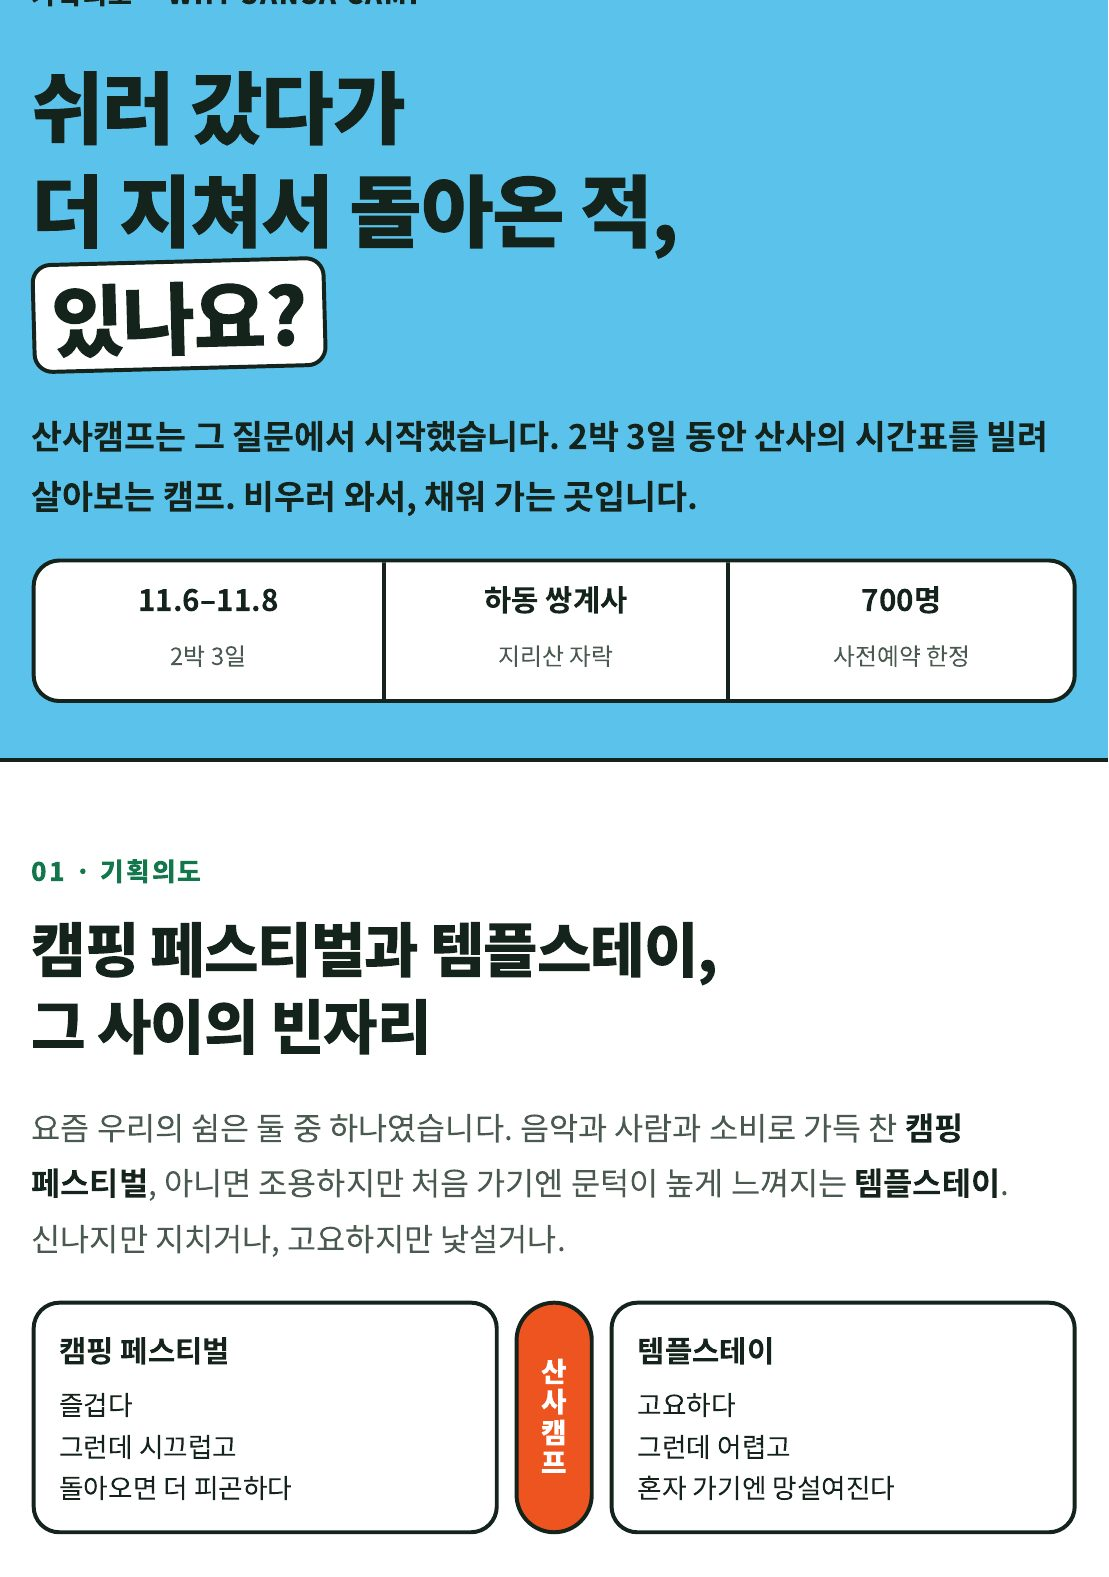
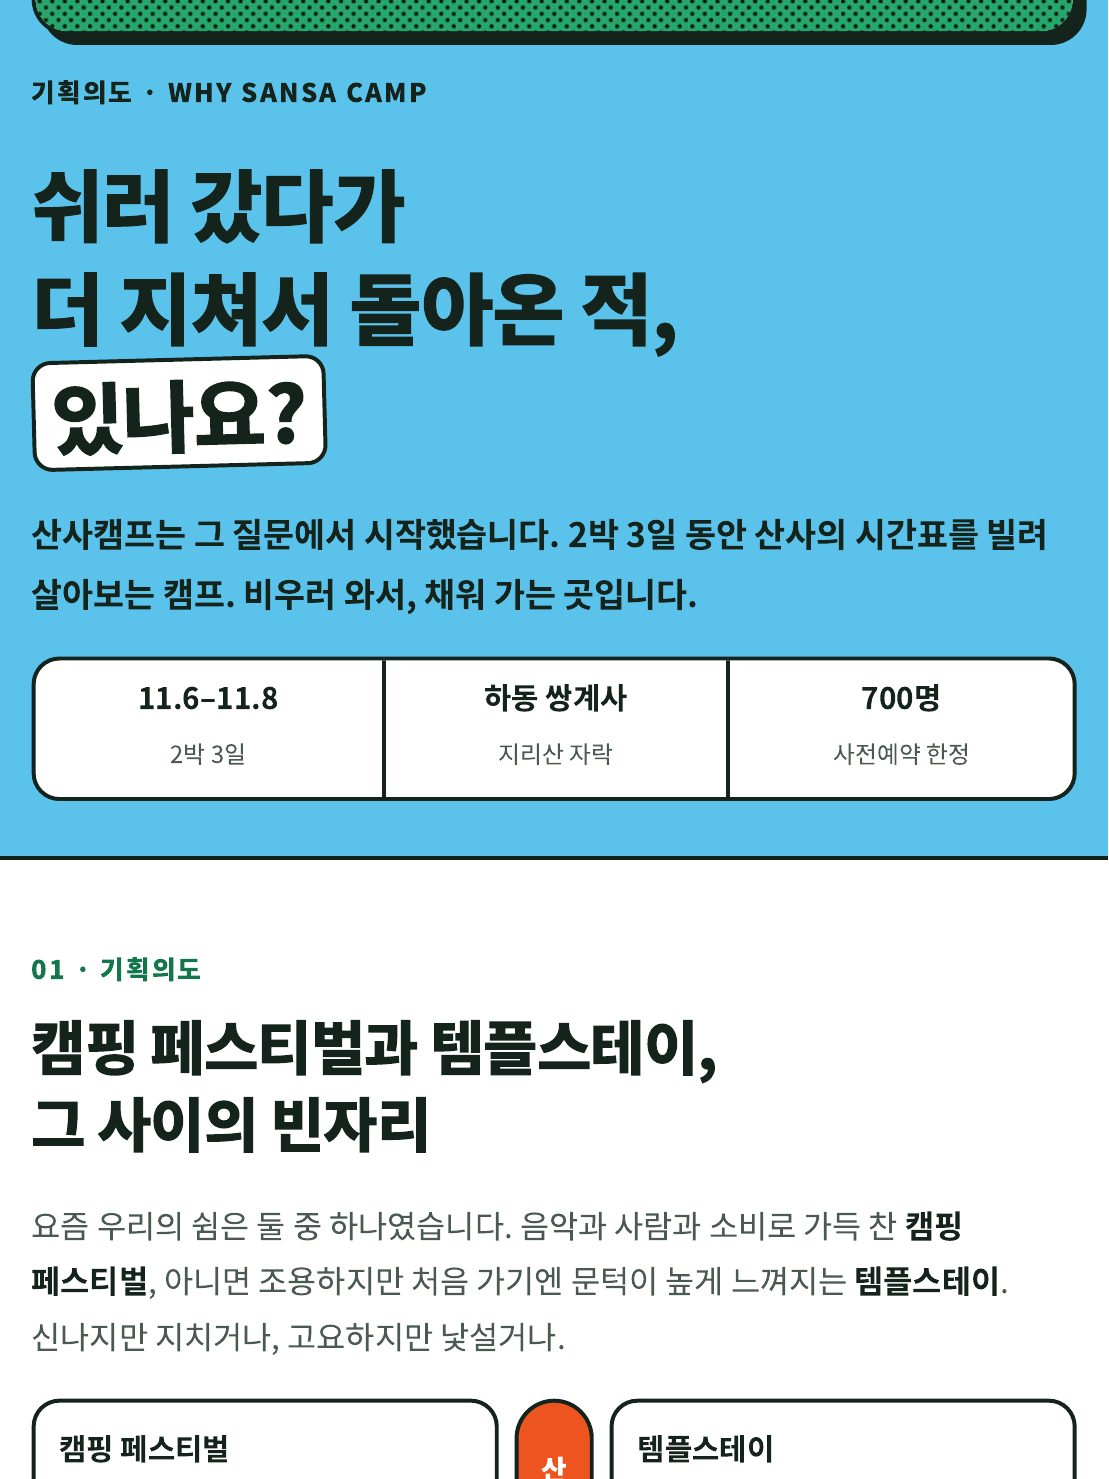
about: 기획의도 페이지를 새 기획 PDF(티켓 안내 제외 버전)로 교체
Claude-Session: https://claude.ai/code/session_01RWNKczAFUoPqQwLBG1R75N

diff --git a/src/pages/About.tsx b/src/pages/About.tsx
@@ -2,8 +2,8 @@ import { Link, useNavigate } from 'react-router-dom'
 import Icon from '../components/ui/Icon'
 import SponsorStrip from '../components/home/SponsorStrip'
 
-// 기획의도 · WHY SANSA CAMP — 운영팀 기획 페이지(PDF)를 10조각 이미지로. 마지막 CTA·주최/후원은 앱에서 직접 그린다(링크·최신 목록 반영).
-const PARTS = Array.from({ length: 10 }, (_, i) => `/about/p${i + 1}.jpg`)
+// 기획의도 · WHY SANSA CAMP — 운영팀 기획 페이지(PDF)를 9조각 이미지로. 마지막 CTA·주최/후원은 앱에서 직접 그린다(링크·최신 목록 반영).
+const PARTS = Array.from({ length: 9 }, (_, i) => `/about/p${i + 1}.jpg`)
 
 export default function About() {
   const nav = useNavigate()
@@ -16,7 +16,7 @@ export default function About() {
       </header>
       <div className="mx-auto max-w-[430px]">
         {PARTS.map((src, i) => (
-          <img key={src} src={src} alt={i === 0 ? '2026 산사캠프 with 쌍계사 — 쉬러 갔다가 더 지쳐서 돌아온 적, 있나요? 비우러 와서, 채워 가는 2박 3일' : ''} width={1109} height={1577} loading={i < 2 ? 'eager' : 'lazy'} decoding="async" draggable={false} className="block h-auto w-full" />
+          <img key={src} src={src} alt={i === 0 ? '2026 산사캠프 with 쌍계사 — 쉬러 갔다가 더 지쳐서 돌아온 적, 있나요? 비우러 와서, 채워 가는 2박 3일' : ''} width={1109} height={1479} loading={i < 2 ? 'eager' : 'lazy'} decoding="async" draggable={false} className="block h-auto w-full" />
         ))}
 
         {/* 마무리 CTA — 이미지 대신 실제 버튼 */}
